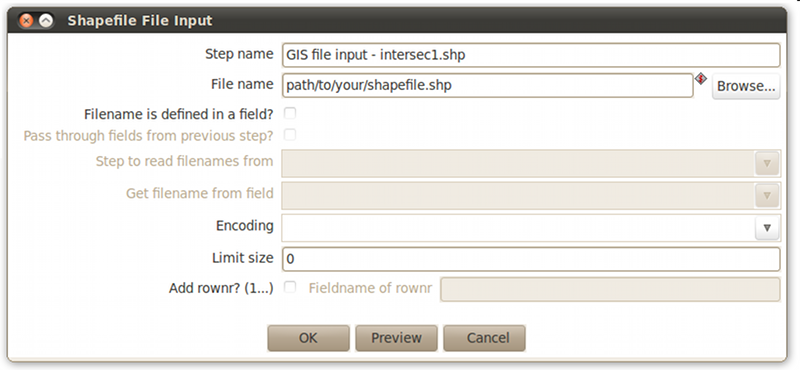
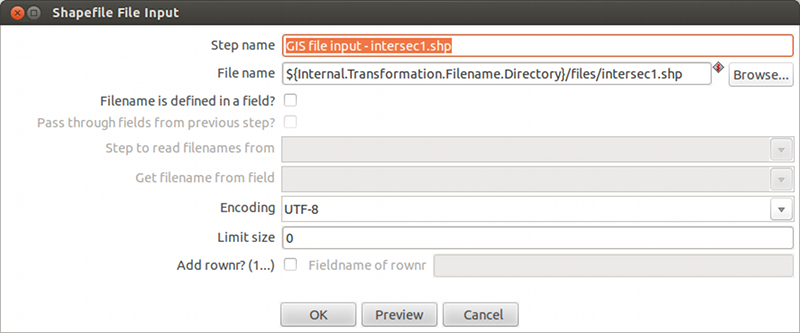
Have updated the geokettle quickstart and some images in order to stick to the changes that occured in the GeoKettle 2.5 GUI and in the support websites.

Changed region(s): [[0.0, 0.0, 1.0, 1.0], [0.0938, 0.4204, 0.3438, 0.4805], [0.1562, 0.5105, 0.3438, 0.5706]]

diff --git a/livedvd/gisvm/trunk/doc/en/quickstart/geokettle_quickstart.rst b/livedvd/gisvm/trunk/doc/en/quickstart/geokettle_quickstart.rst
@@ -2,7 +2,7 @@
 :Author: Thierry Badard
 :Reviewer: Sergio Baños Calvo
 :Reviewer: Cameron Shorter, LISAsoft
-:Version: osgeo-live6.5
+:Version: osgeo-live7.0draft
 :License: Creative Commons Attribution-ShareAlike 3.0 Unported  (CC BY-SA 3.0)
 
 .. image:: ../../images/project_logos/logo-geokettle.png
@@ -134,4 +134,4 @@ Here are some additional challenges for you to try:
 What Next?
 ================================================================================
 
-Take a look at the GeoKettle user and developer documentation and tutorials available on the `wiki <http://wiki.spatialytics.org>`_ of the project. Do not hesitate also to ask for help on the Spatialytics `forum <http://www.spatialytics.com/forum>`_.
+Take a look at the documentation available on the Spatialytics `documentation center <http://docs.spatialytics.com/doku.php?id=en:spatialytics_etl>`_. Do not hesitate also to ask for help on the Spatialytics `forum <http://forum.spatialytics.com>`_.
